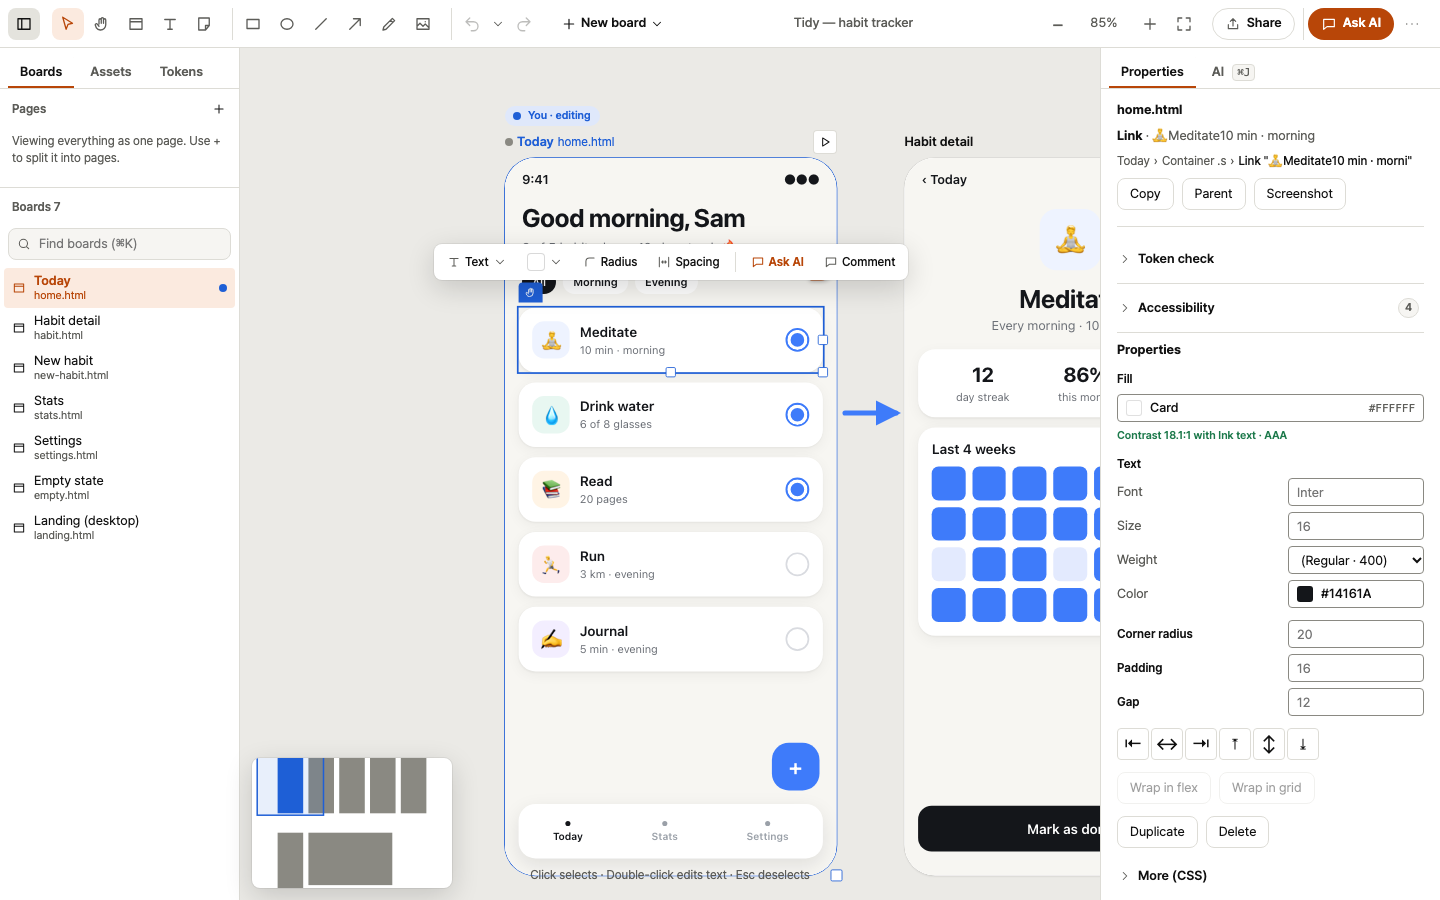
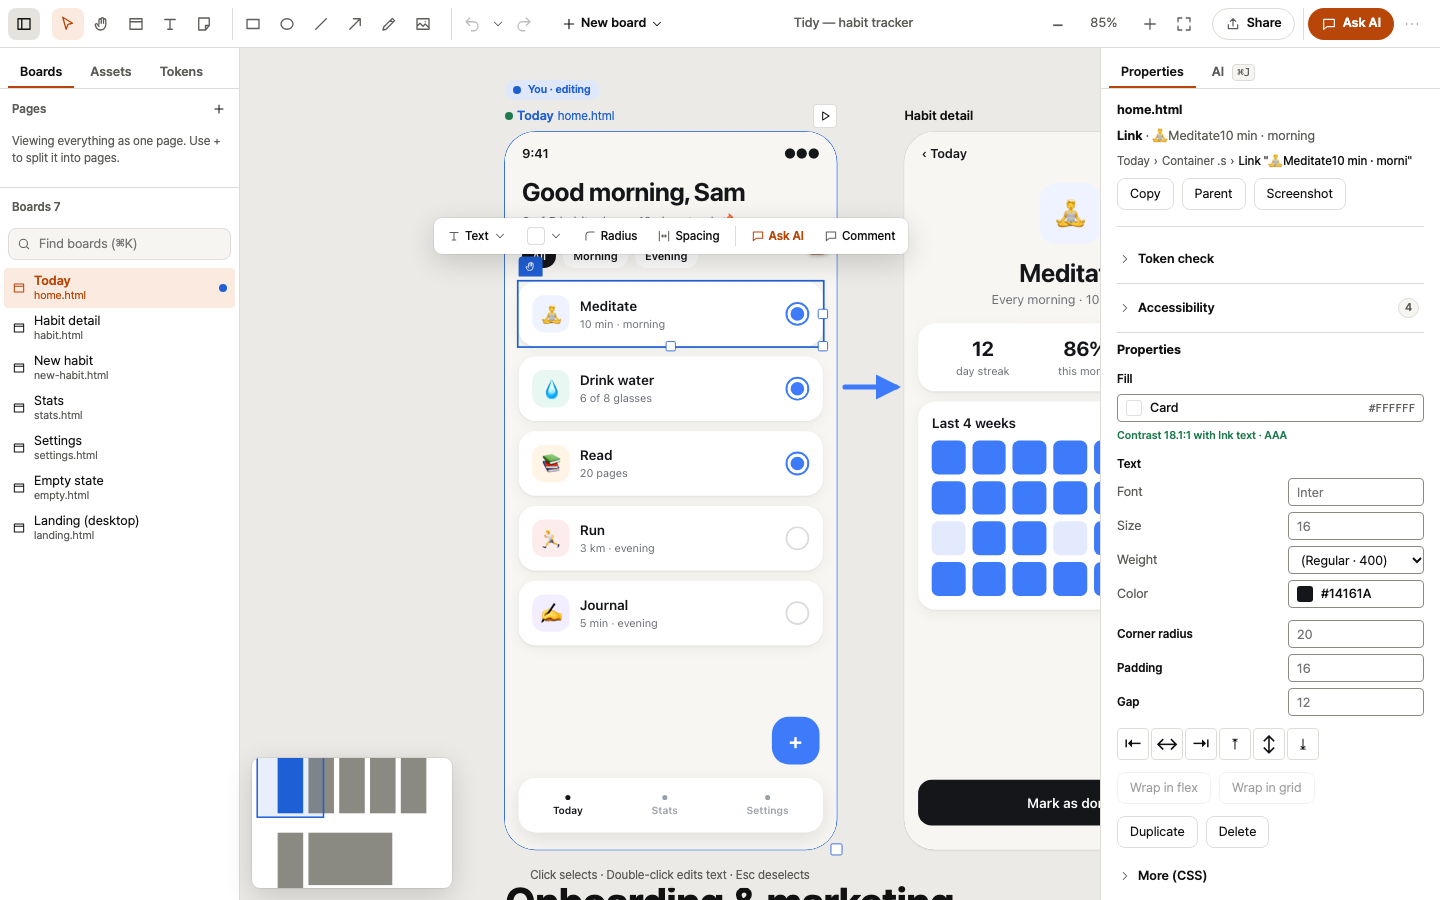
Fix a crash and a lost click while a board is between two loads
Every write from the app reloads its board twice (right away, then on
the watcher's echo), so a key press or click can land on an iframe
that has no document element or body for a moment.

- boardVars read documentElement.style of such a board and took the
  whole app down; it now returns nothing until the page is back
- A click on a board that is still loading was dropped; it now waits
  for the frame's load and selects then
- e2e tests for both; pointOf waits for a redrawn board's box
- Canvas hint gets a background so it reads over boards; the dot in a
  board-list row is styled; both README screenshots retaken
- README counts 22 MCP tools (claim_board and write_board are new)

diff --git a/app/src/App.tsx b/app/src/App.tsx
@@ -139,6 +139,8 @@ export function App() {
   const [lint, setLint] = useState<LintItem[] | null>(null);
   const [a11y, setA11y] = useState<A11yItem[] | null>(null);
   const pendingPick = useRef<{ file: string; paths: string[] } | null>(null);
+  // The newest click handler, for a click that had to wait for its board to load
+  const pickAtRef = useRef<(f: string, at: { clientX: number; clientY: number }, how: { add: boolean; double: boolean }) => void>(() => {});
   const [guidesOn, setGuidesOn] = useState(true);
   const [theme, setTheme] = useState<Theme>(() => {
     try {
@@ -1090,6 +1092,19 @@ export function App() {
     setSelectedShapes([]);
   };
   const pickPath = (file: string, path: string) => pickElement(file, [path]);
+  /** A click on a live board: the element under the pointer */
+  const pickAt = (f: string, at: { clientX: number; clientY: number }, how: { add: boolean; double: boolean }) => {
+    const hit = elementUnder(frames.current.get(f), at.clientX, at.clientY);
+    // The page itself (no element under the pointer): the board stays selected on its own
+    if (!hit) return void (!how.add && editFile === f && setEditFile(null));
+    if (how.add && editFile === f) {
+      const cur = edit.state.paths;
+      return void edit.select(cur.includes(hit.path) ? cur.filter((x) => x !== hit.path) : [...cur, hit.path]);
+    }
+    pickElement(f, [hit.path]);
+    if (how.double) onTextEdit(f, hit.el as HTMLElement, hit.path);
+  };
+  pickAtRef.current = pickAt;
   // The pick lands once the board is the selected one and its page has loaded (a board zoomed out to a thumbnail is drawn live first)
   useEffect(() => {
     const p = pendingPick.current;
@@ -1831,15 +1846,14 @@ export function App() {
             playing={inlinePlay}
             typing={typing}
             onPickElement={(f, at, how) => {
-              const hit = elementUnder(frames.current.get(f), at.clientX, at.clientY);
-              // The page itself (no element under the pointer): the board stays selected on its own
-              if (!hit) return void (!how.add && editFile === f && setEditFile(null));
-              if (how.add && editFile === f) {
-                const cur = edit.state.paths;
-                return void edit.select(cur.includes(hit.path) ? cur.filter((x) => x !== hit.path) : [...cur, hit.path]);
+              const frame = frames.current.get(f);
+              const doc = frame?.contentDocument;
+              // Between two loads (its file just changed) the board has no page to hit: the click lands once the page is back
+              if (frame && (!doc?.body || doc.readyState === "loading")) {
+                const later = { clientX: at.clientX, clientY: at.clientY };
+                return frame.addEventListener("load", () => pickAtRef.current(f, later, how), { once: true });
               }
-              pickElement(f, [hit.path]);
-              if (how.double) onTextEdit(f, hit.el as HTMLElement, hit.path);
+              pickAt(f, at, how);
             }}
             onHoverElement={(f, at) => {
               const hit = f && at ? elementUnder(frames.current.get(f), at.clientX, at.clientY) : null;

diff --git a/app/src/style.css b/app/src/style.css
@@ -153,7 +153,8 @@ kbd {
 .board-btns { display: flex; gap: 2px; margin-left: auto; flex: none; opacity: 0; transition: opacity 80ms; }
 .board:hover .board-btns, .board.selected .board-btns, .board.editing .board-btns { opacity: 1; }
 .board-btns .icon-btn { background: var(--panel); border-color: var(--line); }
-.dot { width: 8px; height: 8px; border-radius: 50%; background: var(--ok); flex: none; }
+/* The interactive-board dot (the agent picker further down has a .dot of its own) */
+.lab-row > .dot { width: 8px; height: 8px; border-radius: 50%; background: var(--ok); flex: none; }
 .board-frame { position: absolute; inset: 0; background: #fff; overflow: hidden; box-shadow: var(--shadow-1); }
 .board.frameless .board-frame { box-shadow: none; background: transparent; }
 .board:hover:not(.selected) .board-frame { box-shadow: 0 0 0 2px var(--line-strong); }
@@ -892,7 +893,7 @@ button.danger { color: var(--warn); }
 .stepper input { flex: 1; min-width: 0; text-align: center; font-variant-numeric: tabular-nums; }
 .stepper .icon-btn { border-color: var(--line); }
 .pop .chips-row { grid-column: auto; }
-.canvas-hint { position: absolute; left: 50%; bottom: 16px; transform: translateX(-50%); font-size: 12px; color: var(--muted); white-space: nowrap; pointer-events: none; z-index: 4; }
+.canvas-hint { position: absolute; left: 50%; bottom: 12px; transform: translateX(-50%); padding: 4px 10px; border-radius: 999px; background: color-mix(in srgb, var(--bg) 90%, transparent); font-size: 12px; color: var(--muted); white-space: nowrap; pointer-events: none; z-index: 4; }
 .crumb { display: flex; align-items: center; gap: 4px; font-size: 12px; color: var(--muted); flex-wrap: wrap; min-width: 0; }
 .crumb b { font-weight: 500; color: var(--text); overflow-wrap: anywhere; }
 .crumb button.link { color: var(--muted); align-self: auto; }

diff --git a/docs/design/assets/easel.css b/docs/design/assets/easel.css
@@ -265,6 +265,7 @@ code { font: 11px ui-monospace, SFMono-Regular, Menlo, monospace; color: var(--m
 .dot { width: 8px; height: 8px; border-radius: 4px; flex: none; background: var(--line-strong); }
 .dot.ready { background: var(--ok); }
 .dot.signin, .dot.missing { background: var(--warn); }
+.lab-row > .dot { border-radius: 50%; background: var(--ok); }
 .model-field { flex: 1; min-width: 0; height: 32px; display: flex; align-items: center; padding: 0 8px; border: 1px solid var(--line); border-radius: var(--r); background: var(--panel); font-size: 12px; color: var(--muted); white-space: nowrap; overflow: hidden; }
 /* Popover menu (agent menu) */
 .menu { background: var(--panel); border-radius: var(--r); box-shadow: var(--shadow-2); padding: 4px; }
@@ -480,7 +481,7 @@ input::placeholder { color: var(--muted); }
 .hex { display: flex; gap: 6px; align-items: center; }
 .hex .num { flex: 1; min-width: 0; font: 12px ui-monospace, SFMono-Regular, Menlo, monospace; }
 .hex .sw { width: 28px; height: 28px; padding: 0; border-radius: var(--r-sm); border: 1px solid var(--line); background: none; }
-.canvas-hint { position: absolute; left: 50%; bottom: 16px; transform: translateX(-50%); font-size: 12px; color: var(--muted); white-space: nowrap; pointer-events: none; z-index: 4; }
+.canvas-hint { position: absolute; left: 50%; bottom: 12px; transform: translateX(-50%); padding: 4px 10px; border-radius: 999px; background: color-mix(in srgb, var(--bg) 90%, transparent); font-size: 12px; color: var(--muted); white-space: nowrap; pointer-events: none; z-index: 4; }
 .crumb { display: flex; align-items: center; gap: 4px; font-size: 12px; color: var(--muted); flex-wrap: wrap; min-width: 0; }
 .crumb b { font-weight: 500; color: var(--text); overflow-wrap: anywhere; }
 .crumb .btn.link { color: var(--muted); font-weight: 400; }

diff --git a/app/src/ElementBar.tsx b/app/src/ElementBar.tsx
@@ -19,7 +19,7 @@ export const tokenColors = (t: Tokens | null): TokenColor[] => (t?.registered ? 
 /** Custom properties a board defines on :root / html / body (its own token variables), name → value */
 export function boardVars(doc: Document | null | undefined): Record<string, string> {
   const out: Record<string, string> = {};
-  if (!doc) return out;
+  if (!doc?.documentElement) return out; // none yet, or the board is between two loads
   const take = (st: CSSStyleDeclaration) => {
     for (let i = 0; i < st.length; i++) if (st[i].startsWith("--")) out[st[i]] = st.getPropertyValue(st[i]).trim();
   };

diff --git a/README.md b/README.md
@@ -37,7 +37,7 @@ npx easel-canvas --dir ./designs  # any folder of screens/*.html
 ## Why Easel
 
 - **HTML is the source of truth.** Each `screens/*.html` file is one board. What you see is exactly what ships to the browser, and there's nothing to export or keep in sync.
-- **Built for AI agents.** An MCP server with 20 tools lets agents see the boards, read what you selected, leave comments, check tokens and arrange the canvas. An in-app chat runs `claude -p`, `codex exec`, `cursor-agent -p`, `gemini -p` or your own command with your selection as context; Claude Code's permission requests come up as cards you answer in the chat.
+- **Built for AI agents.** An MCP server with 22 tools lets agents see the boards, read what you selected, leave comments, check tokens and arrange the canvas. An in-app chat runs `claude -p`, `codex exec`, `cursor-agent -p`, `gemini -p` or your own command with your selection as context; Claude Code's permission requests come up as cards you answer in the chat.
 - **Surgical edits.** Changes are patched into the exact source range (parse5 locations), so formatting, comments and the rest of the file stay untouched. If an agent edits the same element first, your edit is rejected instead of overwriting it.
 - **Git-friendly by design.** Layout, notes and comments live in small JSON files written one entry per line, so two branches moving different boards merge without conflicts.
 - **Local-first.** It runs on `127.0.0.1` and works directly on the files in your repo. No account, no cloud, no lock-in.
